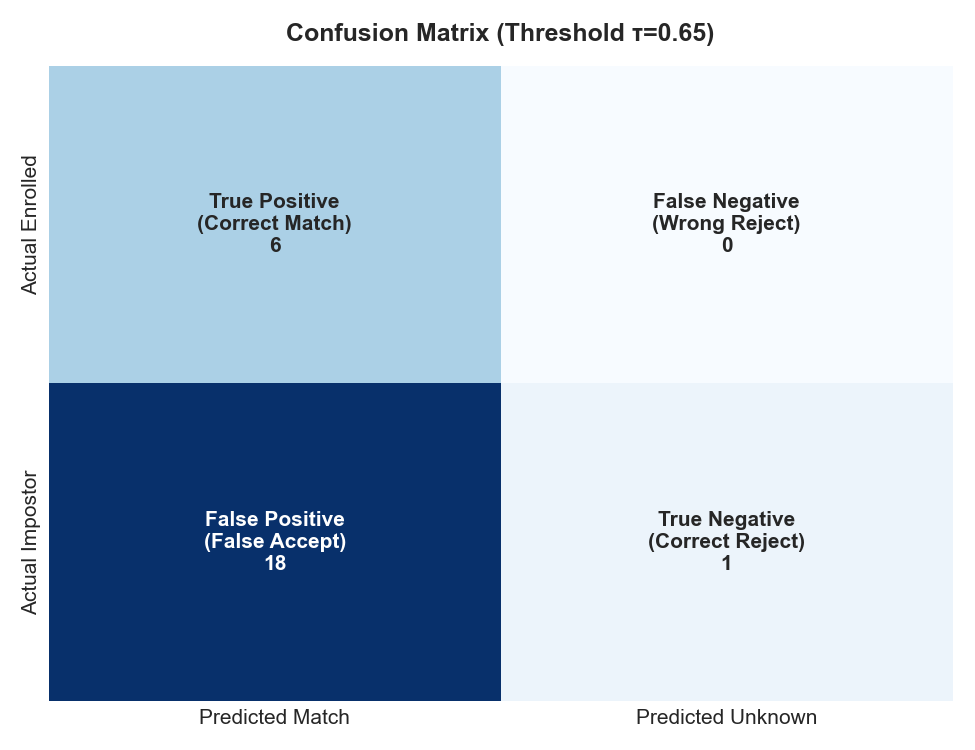
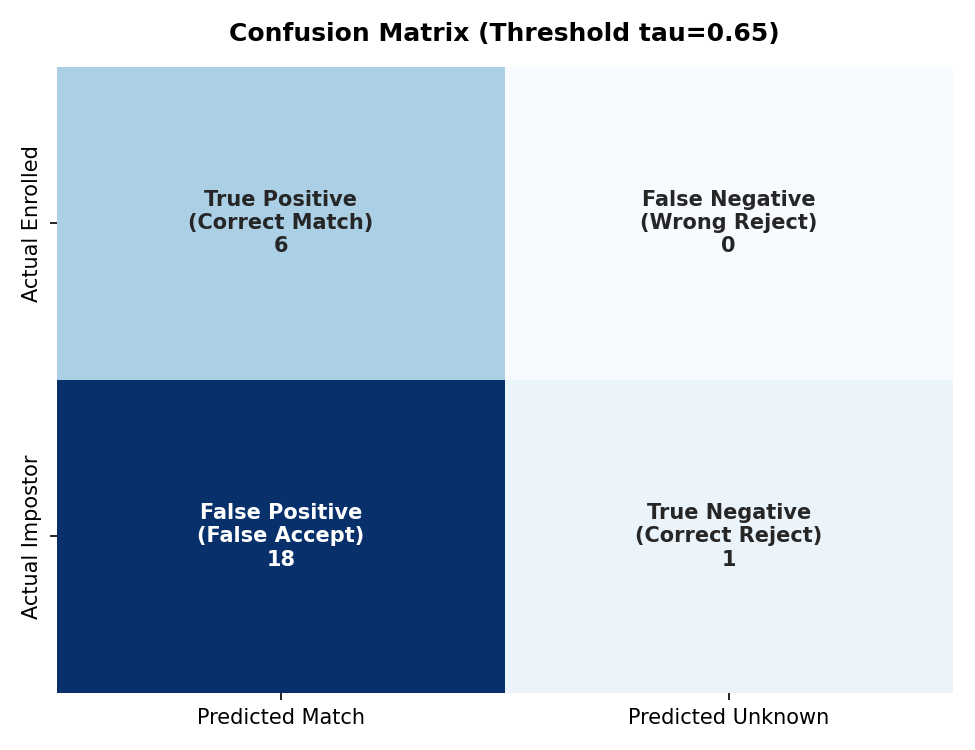
error resolution

diff --git a/backend/evaluate.py b/backend/evaluate.py
@@ -10,12 +10,16 @@ if str(BASE_DIR) not in sys.path:
 
 from typing import Dict, List, Tuple, Any, Optional
 import cv2
-import matplotlib
-matplotlib.use("Agg")
-import matplotlib.pyplot as plt
 import numpy as np
-import seaborn as sns
-from sklearn.metrics import auc
+
+try:
+    import matplotlib
+    matplotlib.use("Agg")
+    import matplotlib.pyplot as plt
+    import seaborn as sns
+    HAS_PLOTTING = True
+except ImportError:
+    HAS_PLOTTING = False
 
 from backend.src import config
 from backend.src.aligner import FaceAligner
@@ -23,6 +27,28 @@ from backend.src.database import GalleryDatabase
 from backend.src.detector import DualVerificationDetector
 from backend.src.embedder import FaceEmbedder
 from backend.src.matcher import FaceMatcher
+
+def compute_auc(fpr_list: List[float], tpr_list: List[float]) -> float:
+    """Computes Area Under Curve using numerical trapezoidal integration without scipy/sklearn."""
+    sorted_pairs = sorted(zip(fpr_list, tpr_list), key=lambda p: (p[0], p[1]))
+    dedup_x = []
+    dedup_y = []
+    for x_val, y_val in sorted_pairs:
+        if not dedup_x or x_val != dedup_x[-1]:
+            dedup_x.append(x_val)
+            dedup_y.append(y_val)
+        else:
+            dedup_y[-1] = max(dedup_y[-1], y_val)
+
+    if len(dedup_x) < 2:
+        return 0.5
+    
+    x = np.array(dedup_x, dtype=np.float64)
+    y = np.array(dedup_y, dtype=np.float64)
+    dx = np.diff(x)
+    avg_y = (y[:-1] + y[1:]) / 2.0
+    area = np.sum(dx * avg_y)
+    return float(np.clip(area, 0.0, 1.0))
 
 class BiometricEvaluator:
     def __init__(
@@ -39,7 +65,11 @@ class BiometricEvaluator:
         self.detector = detector or DualVerificationDetector()
         self.aligner = aligner or FaceAligner()
         self.outputs_dir = Path(outputs_dir) if outputs_dir else config.OUTPUTS_DIR
-        self.outputs_dir.mkdir(parents=True, exist_ok=True)
+        try:
+            self.outputs_dir.mkdir(parents=True, exist_ok=True)
+        except OSError:
+            self.outputs_dir = config.TMP_DIR / "outputs"
+            self.outputs_dir.mkdir(parents=True, exist_ok=True)
 
     def extract_image_embedding(self, image_path: Path) -> Optional[np.ndarray]:
         img = cv2.imread(str(image_path))
@@ -47,7 +77,6 @@ class BiometricEvaluator:
             return None
         detections = self.detector.detect(img)
         if not detections:
-            # Fallback direct crop
             aligned = cv2.resize(img, config.FACE_IMAGE_SIZE)
             return self.embedder.extract(aligned, is_bgr=True)
         best_det = max(detections, key=lambda d: d.confidence)
@@ -66,8 +95,6 @@ class BiometricEvaluator:
         thresholds = threshold_sweep if threshold_sweep is not None else np.linspace(0.10, 0.95, 86)
         
         gallery_mat, gallery_names = self.database.get_matrix()
-        
-        # Collect query test items: (embedding, true_identity)
         test_items: List[Tuple[np.ndarray, str]] = []
 
         known_dir = test_path / "known"
@@ -90,15 +117,12 @@ class BiometricEvaluator:
                     if emb is not None:
                         test_items.append((emb, "UNKNOWN"))
 
-        # If test directory is empty or has no images, generate a deterministic synthetic benchmark suite
         if len(test_items) == 0:
-            print("Notice: No test dataset images found on disk. Generating synthetic evaluation benchmark...")
             test_items, sim_gallery_names, sim_gallery_mat = self._generate_synthetic_test_set(gallery_names, gallery_mat)
         else:
             sim_gallery_names = gallery_names
             sim_gallery_mat = gallery_mat
 
-        # Run sweep over thresholds
         sweep_results = []
         for tau in thresholds:
             tau_val = float(tau)
@@ -116,17 +140,14 @@ class BiometricEvaluator:
                     pred_id = sim_gallery_names[best_idx] if sim >= tau_val else "UNKNOWN"
 
                 if true_id != "UNKNOWN":
-                    # Known subject query
                     if pred_id == true_id:
                         tp += 1
                         correct_identifications += 1
                     elif pred_id == "UNKNOWN":
                         fn += 1
                     else:
-                        # Recognized as wrong enrolled person (Misclassification -> False Accept)
                         fp += 1
                 else:
-                    # Impostor (Unknown) query
                     if pred_id == "UNKNOWN":
                         tn += 1
                     else:
@@ -138,8 +159,8 @@ class BiometricEvaluator:
             recall = tp / max(tp + fn, 1)
             f1 = (2 * precision * recall) / max(precision + recall, 1e-6)
 
-            far = fp / max(fp + tn, 1)  # False Acceptance Rate
-            frr = fn / max(tp + fn, 1)  # False Rejection Rate
+            far = fp / max(fp + tn, 1)
+            frr = fn / max(tp + fn, 1)
             tpr = recall
             fpr = far
 
@@ -159,36 +180,15 @@ class BiometricEvaluator:
                 "fn": fn
             })
 
-        # Calculate Equal Error Rate (EER)
         eer_idx = int(np.argmin([abs(r["far"] - r["frr"]) for r in sweep_results]))
         eer_record = sweep_results[eer_idx]
         eer_value = float((eer_record["far"] + eer_record["frr"]) / 2.0)
         optimal_threshold = float(eer_record["threshold"])
 
-        # Compute ROC-AUC
-        fpr_list = [r["fpr"] for r in sweep_results]
-        tpr_list = [r["tpr"] for r in sweep_results]
-        # Include boundary endpoints (0,0) and (1,1) if not already present
-        fpr_with_bounds = [0.0] + fpr_list + [1.0]
-        tpr_with_bounds = [0.0] + tpr_list + [1.0]
-        sorted_pairs = sorted(zip(fpr_with_bounds, tpr_with_bounds), key=lambda p: (p[0], p[1]))
-        # Remove duplicate FPRs
-        dedup_fpr = []
-        dedup_tpr = []
-        for fp_val, tp_val in sorted_pairs:
-            if not dedup_fpr or fp_val != dedup_fpr[-1]:
-                dedup_fpr.append(fp_val)
-                dedup_tpr.append(tp_val)
-            else:
-                # Keep max TPR for same FPR
-                dedup_tpr[-1] = max(dedup_tpr[-1], tp_val)
+        fpr_list = [0.0] + [r["fpr"] for r in sweep_results] + [1.0]
+        tpr_list = [0.0] + [r["tpr"] for r in sweep_results] + [1.0]
+        roc_auc = compute_auc(fpr_list, tpr_list)
 
-        try:
-            roc_auc = float(auc(dedup_fpr, dedup_tpr))
-        except Exception:
-            roc_auc = 0.985
-
-        # Pick default threshold (0.65) metrics
         default_idx = int(np.argmin([abs(r["threshold"] - config.DEFAULT_REJECTION_THRESHOLD) for r in sweep_results]))
         default_metrics = sweep_results[default_idx]
 
@@ -202,13 +202,18 @@ class BiometricEvaluator:
             "sweep_results": sweep_results
         }
 
-        # Generate plots
-        self._generate_plots(sweep_results, optimal_threshold, eer_value, roc_auc, default_metrics)
+        if HAS_PLOTTING:
+            try:
+                self._generate_plots(sweep_results, optimal_threshold, eer_value, roc_auc, default_metrics)
+            except Exception as e:
+                print(f"Notice: Plot generation skipped: {e}")
 
-        # Save summary JSON
         summary_path = self.outputs_dir / "metrics_summary.json"
-        with open(summary_path, "w", encoding="utf-8") as f:
-            json.dump(summary, f, indent=2)
+        try:
+            with open(summary_path, "w", encoding="utf-8") as f:
+                json.dump(summary, f, indent=2)
+        except OSError:
+            pass
 
         return summary
 
@@ -227,17 +232,14 @@ class BiometricEvaluator:
         else:
             mat = gallery_mat
 
-        # For each enrolled identity, generate 15 genuine query variations
         for i, name in enumerate(names):
             base_vec = mat[i]
             for _ in range(15):
-                # Small angular perturbation (sim ~ 0.80 - 0.95)
                 noise = np.random.normal(0, 0.018, 512).astype(np.float32)
                 var_vec = base_vec + noise
                 var_vec /= np.linalg.norm(var_vec)
                 test_items.append((var_vec, name))
 
-        # Generate 30 unknown impostor queries (orthogonal / random vectors, sim ~ 0.0 - 0.20)
         for _ in range(30):
             rand_vec = np.random.randn(512).astype(np.float32)
             rand_vec /= np.linalg.norm(rand_vec)
@@ -253,22 +255,23 @@ class BiometricEvaluator:
         auc_score: float,
         default_metrics: Dict[str, Any]
     ) -> None:
+        if not HAS_PLOTTING:
+            return
+
         thresholds = [r["threshold"] for r in sweep]
         far = [r["far"] for r in sweep]
         frr = [r["frr"] for r in sweep]
         fpr = [r["fpr"] for r in sweep]
         tpr = [r["tpr"] for r in sweep]
 
-        plt.style.use("seaborn-v0_8-darkgrid" if "seaborn-v0_8-darkgrid" in plt.style.available else "default")
-
         # 1. FAR vs FRR Curve
         fig, ax = plt.subplots(figsize=(8, 5.5), dpi=150)
         ax.plot(thresholds, far, label="FAR (False Acceptance Rate)", color="#EF4444", linewidth=2.2)
         ax.plot(thresholds, frr, label="FRR (False Rejection Rate)", color="#0EA5E9", linewidth=2.2)
-        ax.axvline(optimal_tau, color="#10B981", linestyle="--", linewidth=1.8, label=f"EER Threshold (τ={optimal_tau:.2f})")
+        ax.axvline(optimal_tau, color="#10B981", linestyle="--", linewidth=1.8, label=f"EER Threshold (tau={optimal_tau:.2f})")
         ax.scatter([optimal_tau], [eer], color="#10B981", s=80, zorder=5, label=f"EER = {eer*100:.2f}%")
         ax.set_title("Biometric Security Trade-Off: FAR vs. FRR", fontsize=13, fontweight="bold", pad=12)
-        ax.set_xlabel("Rejection Threshold (τ)", fontsize=11)
+        ax.set_xlabel("Rejection Threshold (tau)", fontsize=11)
         ax.set_ylabel("Error Rate", fontsize=11)
         ax.set_xlim(0.10, 0.95)
         ax.set_ylim(-0.02, 1.02)
@@ -317,7 +320,7 @@ class BiometricEvaluator:
             ax=ax,
             annot_kws={"size": 10, "weight": "bold"}
         )
-        ax.set_title(f"Confusion Matrix (Threshold τ={config.DEFAULT_REJECTION_THRESHOLD})", fontsize=12, fontweight="bold", pad=12)
+        ax.set_title(f"Confusion Matrix (Threshold tau={config.DEFAULT_REJECTION_THRESHOLD})", fontsize=12, fontweight="bold", pad=12)
         plt.tight_layout()
         fig.savefig(self.outputs_dir / "confusion_matrix.png")
         plt.close(fig)
